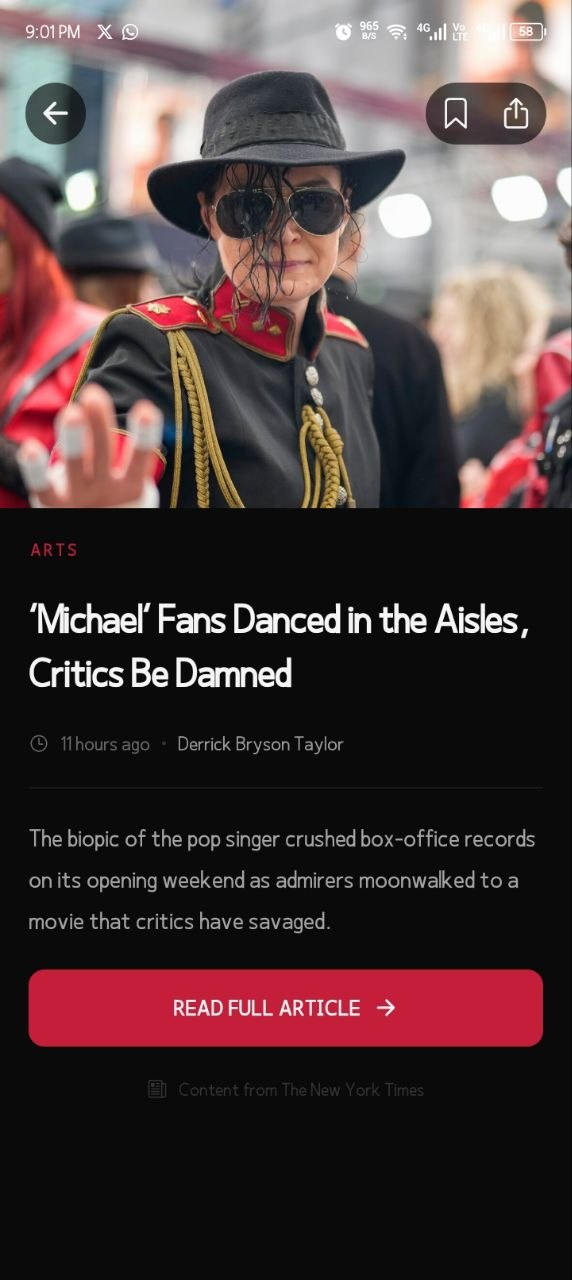
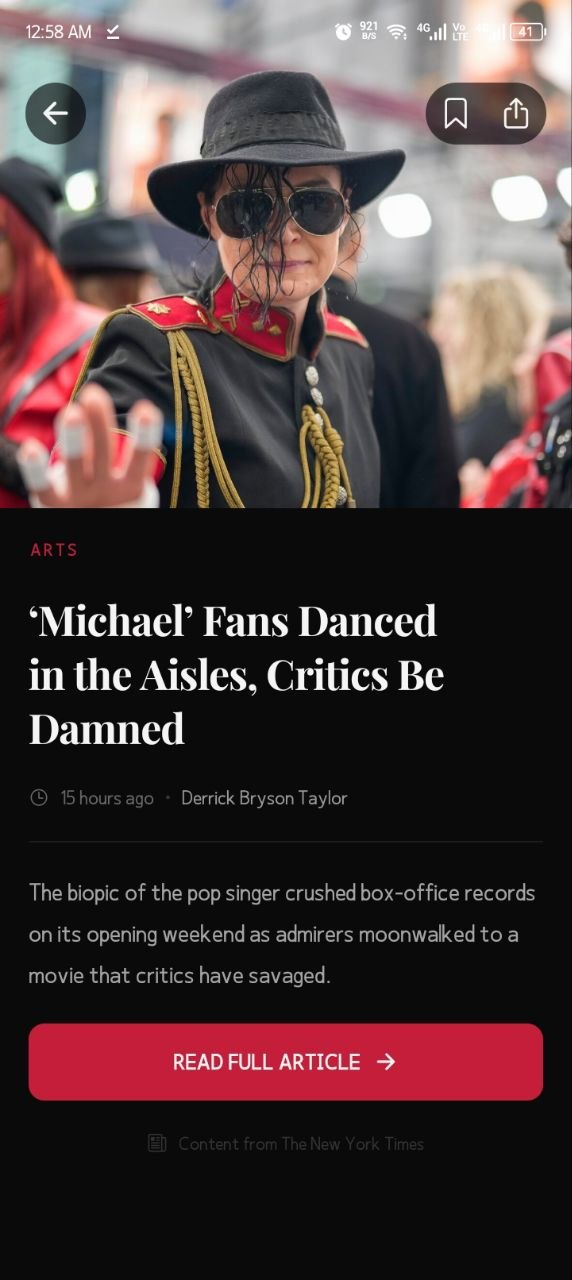
chore: font and README.md image tweaks

Changed region(s): [[0.0297, 0.4688, 0.951, 0.9062], [0.0297, 0.0, 0.2378, 0.0312]]

diff --git a/src/features/search/hooks/useSearch.ts b/src/features/search/hooks/useSearch.ts
@@ -1,6 +1,6 @@
 import { useQuery } from '@tanstack/react-query'
 import { useEffect, useState } from 'react'
-import { nytApi } from '@shared/lib/api'
+import { nytFetch } from '@shared/lib/api'  
 import { NYTSearchResponse } from '@shared/types/api'
 import { Article } from '@shared/types/article'
 
@@ -8,16 +8,12 @@ const DEBOUNCE_MS = 500
 const MIN_QUERY_LENGTH = 3
 
 const normalizeSearchResult = (doc: NYTSearchResponse['response']['docs'][0]): Article => {
-  // nyt api doesn't return images on free tier 
-  
-  const imageUrl = null
-
   return {
     id: doc._id,
     title: doc.headline.main,
     abstract: doc.abstract || doc.snippet,
     url: doc.web_url,
-    imageUrl,
+    imageUrl: null,
     thumbnailUrl: null,
     byline: doc.byline?.original?.replace(/^By /i, '') ?? '',
     publishedDate: doc.pub_date,
@@ -29,26 +25,22 @@ const normalizeSearchResult = (doc: NYTSearchResponse['response']['docs'][0]): A
 
 export const useSearch = (rawQuery: string) => {
   const [debouncedQuery, setDebouncedQuery] = useState(rawQuery)
-  
+
   useEffect(() => {
     const timer = setTimeout(() => {
       setDebouncedQuery(rawQuery)
     }, DEBOUNCE_MS)
     return () => clearTimeout(timer)
   }, [rawQuery])
-  
+
   const isEnabled = debouncedQuery.trim().length >= MIN_QUERY_LENGTH
-  
+
   return useQuery({
     queryKey: ['search', debouncedQuery],
     queryFn: async () => {
-      const { data } = await nytApi.get<NYTSearchResponse>('/search/v2/articlesearch.json', {
-        params: {
-          q: debouncedQuery,
-          sort: 'newest',
-          // fl: 'headline,abstract,web_url,pub_date,byline,multimedia,section_name,snippet,_id',
-        },
-        
+      const data = await nytFetch<NYTSearchResponse>('/search/v2/articlesearch.json', { // 👈 updated
+        q: debouncedQuery,
+        sort: 'newest',
       })
       return data.response.docs.map(normalizeSearchResult)
     },

diff --git a/src/shared/lib/api.ts b/src/shared/lib/api.ts
@@ -1,32 +1,21 @@
-import axios from 'axios'
-
 const NYT_API_KEY = process.env.EXPO_PUBLIC_NYT_API_KEY
+const NYT_BASE_URL = 'https://api.nytimes.com/svc'
 
-export const nytApi = axios.create({
-  baseURL: 'https://api.nytimes.com/svc',
-  timeout: 10000,
-})
+export async function nytFetch<T>(
+  path: string,
+  params: Record<string, string> = {}
+): Promise<T> {
+  const url = new URL(NYT_BASE_URL + path)
+  url.searchParams.set('api-key', NYT_API_KEY!)
+  Object.entries(params).forEach(([k, v]) => url.searchParams.set(k, v))
 
-nytApi.interceptors.request.use((config) => {
-  config.params = {
-    ...config.params,
-    'api-key': NYT_API_KEY,
-  }
-  return config
-})
+  const res = await fetch(url.toString(), {
+    headers: { 'Content-Type': 'application/json' },
+  })
 
-nytApi.interceptors.response.use(
-  (response) => response,
-  (error) => {
-    if (error.response?.status === 429) {
-      return Promise.reject(new Error('Rate limit reached. Please try again shortly.'))
-    }
-    if (error.response?.status === 401) {
-      return Promise.reject(new Error('Invalid API key.'))
-    }
-    if (!error.response) {
-      return Promise.reject(new Error('No internet connection.'))
-    }
-    return Promise.reject(error)
-  }
-)
+  if (res.status === 429) throw new Error('Rate limit reached. Please try again shortly.')
+  if (res.status === 401) throw new Error('Invalid API key.')
+  if (!res.ok) throw new Error(`NYT API error: ${res.status}`)
+
+  return res.json() as Promise<T>
+}

diff --git a/src/features/feed/hooks/useTopStories.ts b/src/features/feed/hooks/useTopStories.ts
@@ -1,6 +1,6 @@
 import { NYTTopStoriesResponse, NYTTopStoriesResult } from '@shared/types/api'
 import { Article, ArticleSection } from '@shared/types/article'
-import { nytApi } from '@shared/lib/api'
+import { nytFetch } from '@shared/lib/api'  
 
 const IMAGE_FORMATS = ['superJumbo', 'Large', 'mediumThreeByTwo440', 'Normal']
 const THUMB_FORMATS = ['thumbnail', 'Small', 'mediumThreeByTwo210']
@@ -32,8 +32,6 @@ export const normalizeTopStory = (item: NYTTopStoriesResult): Article => ({
 })
 
 export const fetchTopStories = async (section: ArticleSection): Promise<Article[]> => {
-  const { data } = await nytApi.get<NYTTopStoriesResponse>(
-    `/topstories/v2/${section}.json`
-  )
+  const data = await nytFetch<NYTTopStoriesResponse>(`/topstories/v2/${section}.json`) // 👈 updated
   return data.results.map(normalizeTopStory)
 }

diff --git a/src/app/(tabs)/search.tsx b/src/app/(tabs)/search.tsx
@@ -116,8 +116,9 @@ export default function SearchScreen() {
         </Text>
         <Text
           color="#f5f5f5"
-          fontSize={28}
-          fontWeight="900"
+          fontSize={25}
+          // fontWeight="900"
+          fontFamily="$display"
           letterSpacing={-1}
         >
           Find articles

diff --git a/src/app/(tabs)/bookmarks.tsx b/src/app/(tabs)/bookmarks.tsx
@@ -72,8 +72,8 @@ export default function BookmarksScreen() {
           </Text>
           <Text
             color="#f5f5f5"
-            fontSize={28}
-            fontWeight="900"
+            fontSize={25}
+            fontFamily="$display"
             letterSpacing={-1}
           >
             Saved Articles

diff --git a/README.md b/README.md
@@ -150,7 +150,7 @@ src/
     ├── hooks/
     │   └── useNetworkStatus.ts
     ├── lib/
-    │   ├── api.ts                # Axios instance + NYT interceptors
+    │   ├── api.ts                # fetch wrapper + NYT error handling
     │   ├── queryClient.ts        # TanStack QueryClient config
     │   └── storage.ts            # Storage adapter
     └── types/
@@ -172,7 +172,6 @@ src/
 | `react-native-reanimated` (v4) | High-performance animations on the UI thread |
 | `@tanstack/react-query` | Server state management and caching |
 | `zustand` | Client state management (bookmarks) |
-| `axios` | HTTP client with interceptors |
 | `expo-image` | Optimized image loading with caching |
 | `expo-linear-gradient` | Gradient overlays on hero cards |
 | `expo-blur` | Frosted glass tab bar background |
